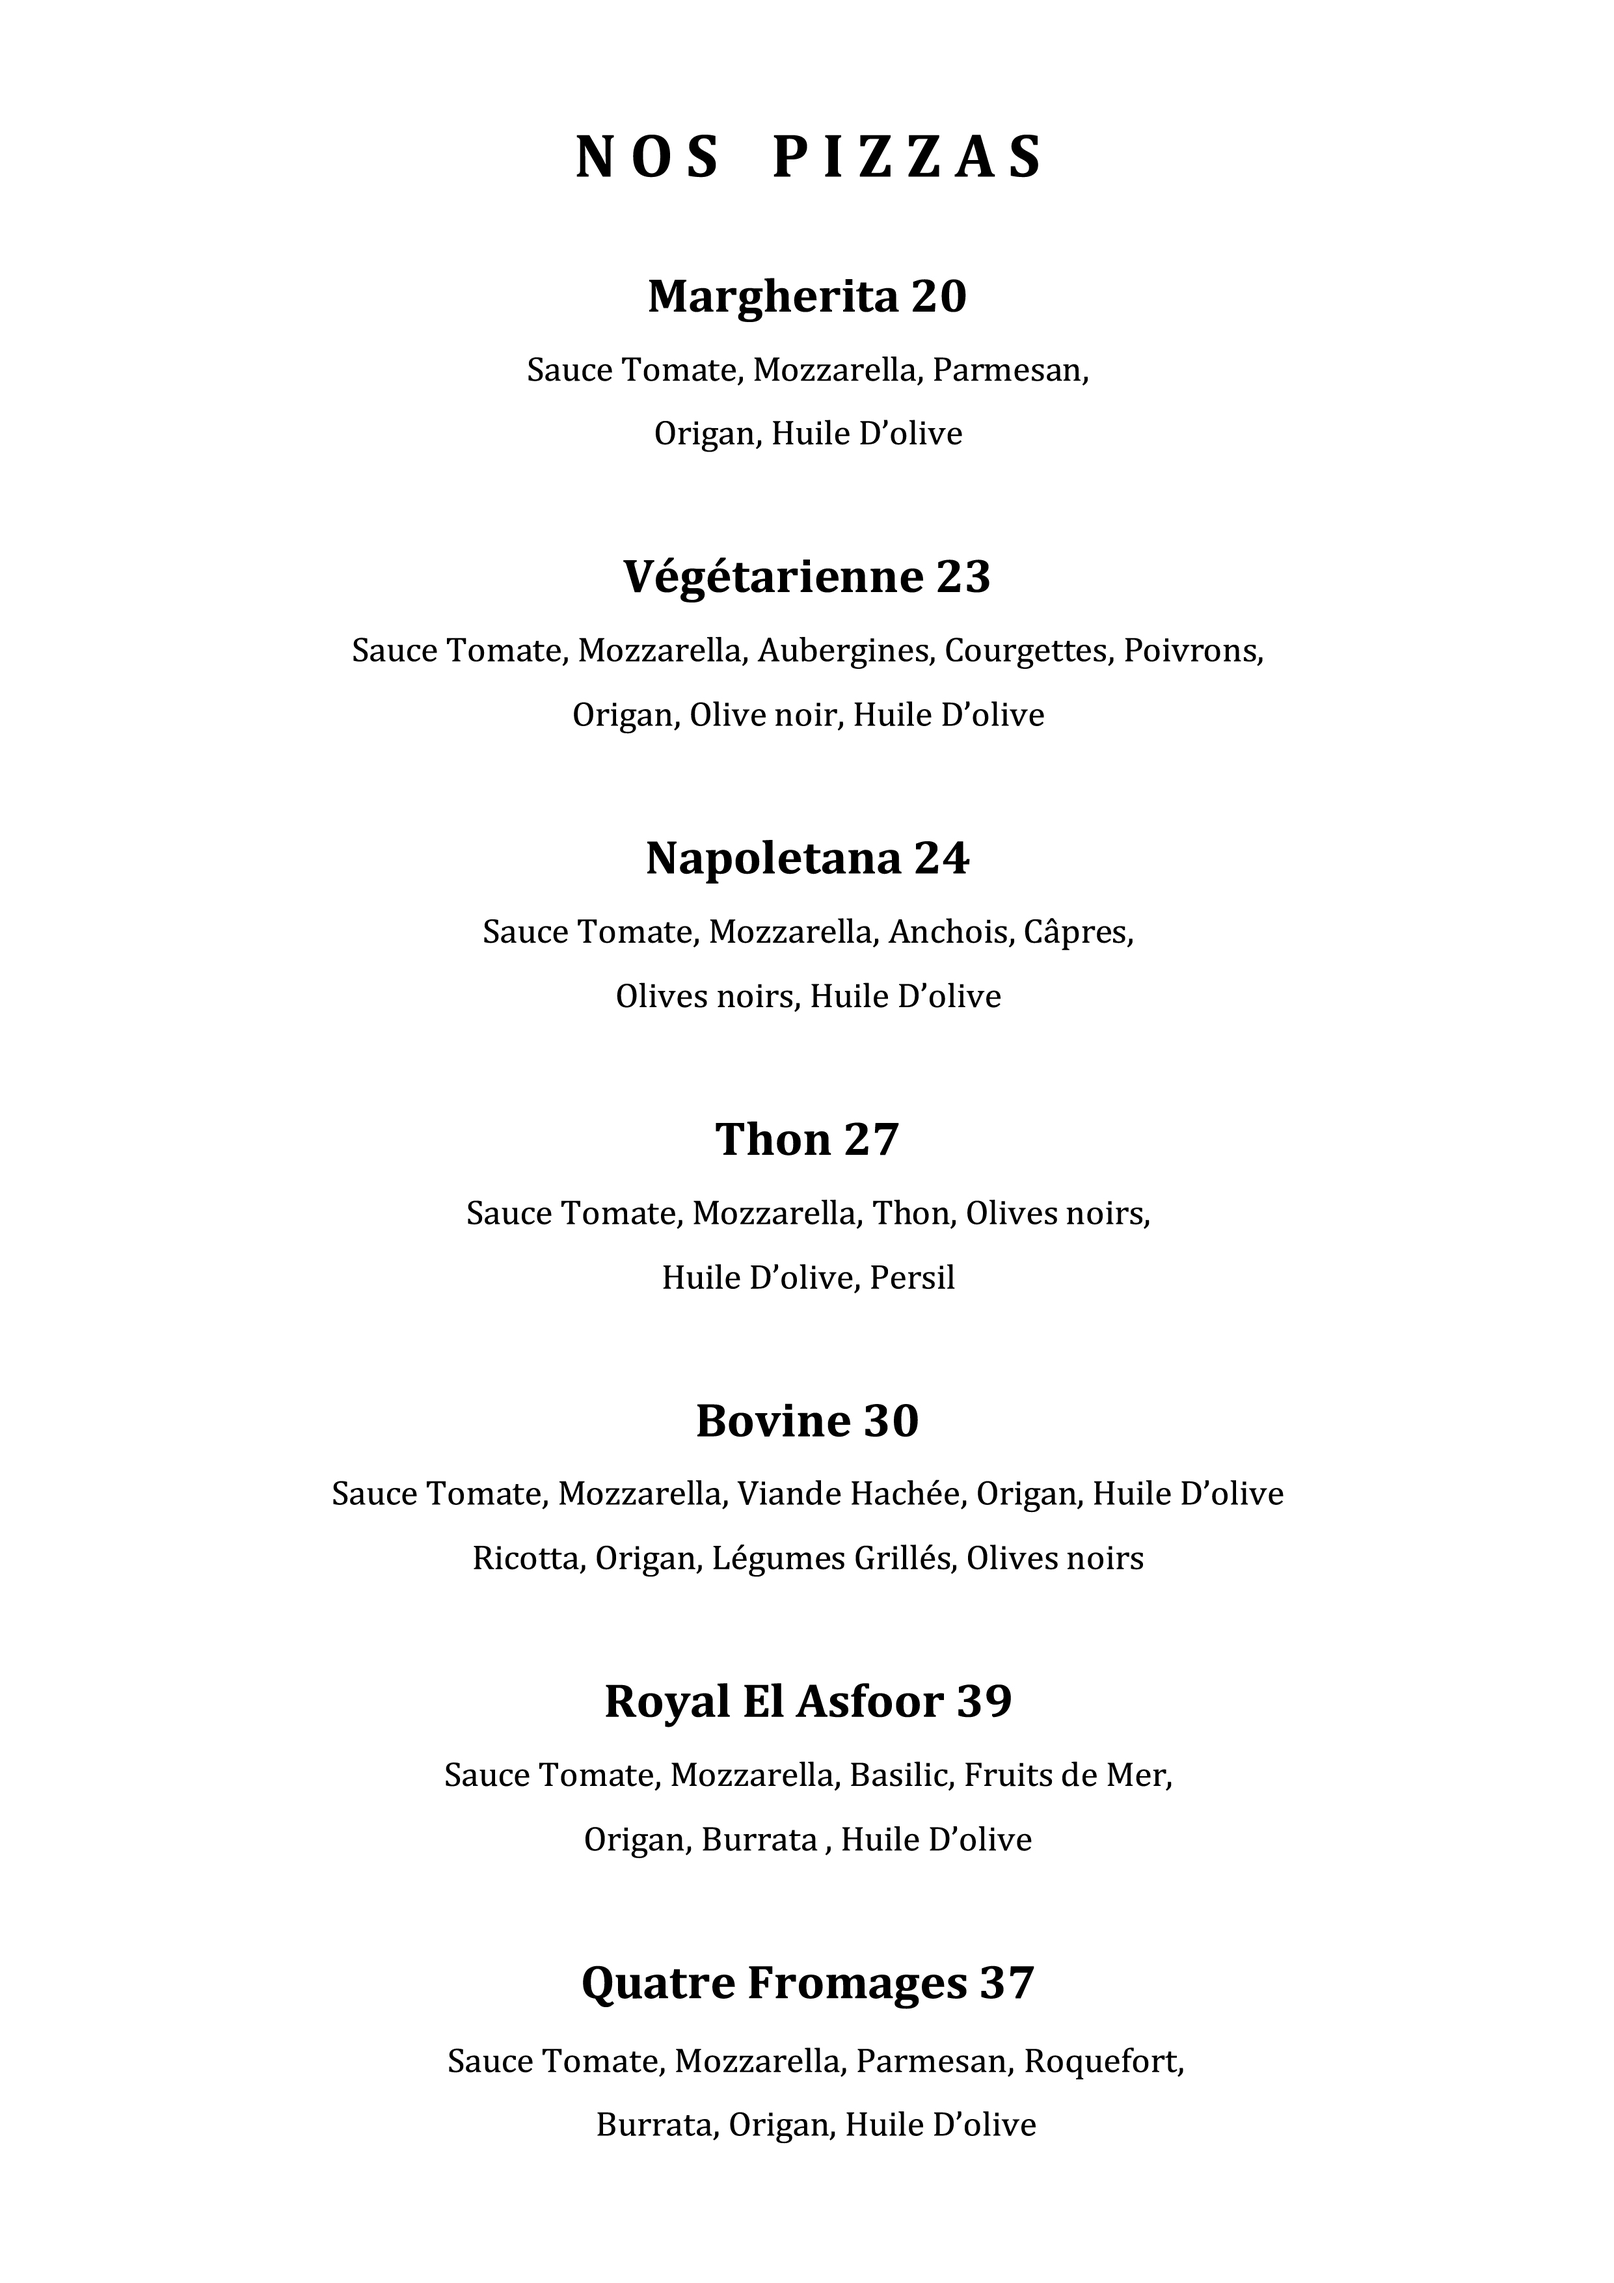
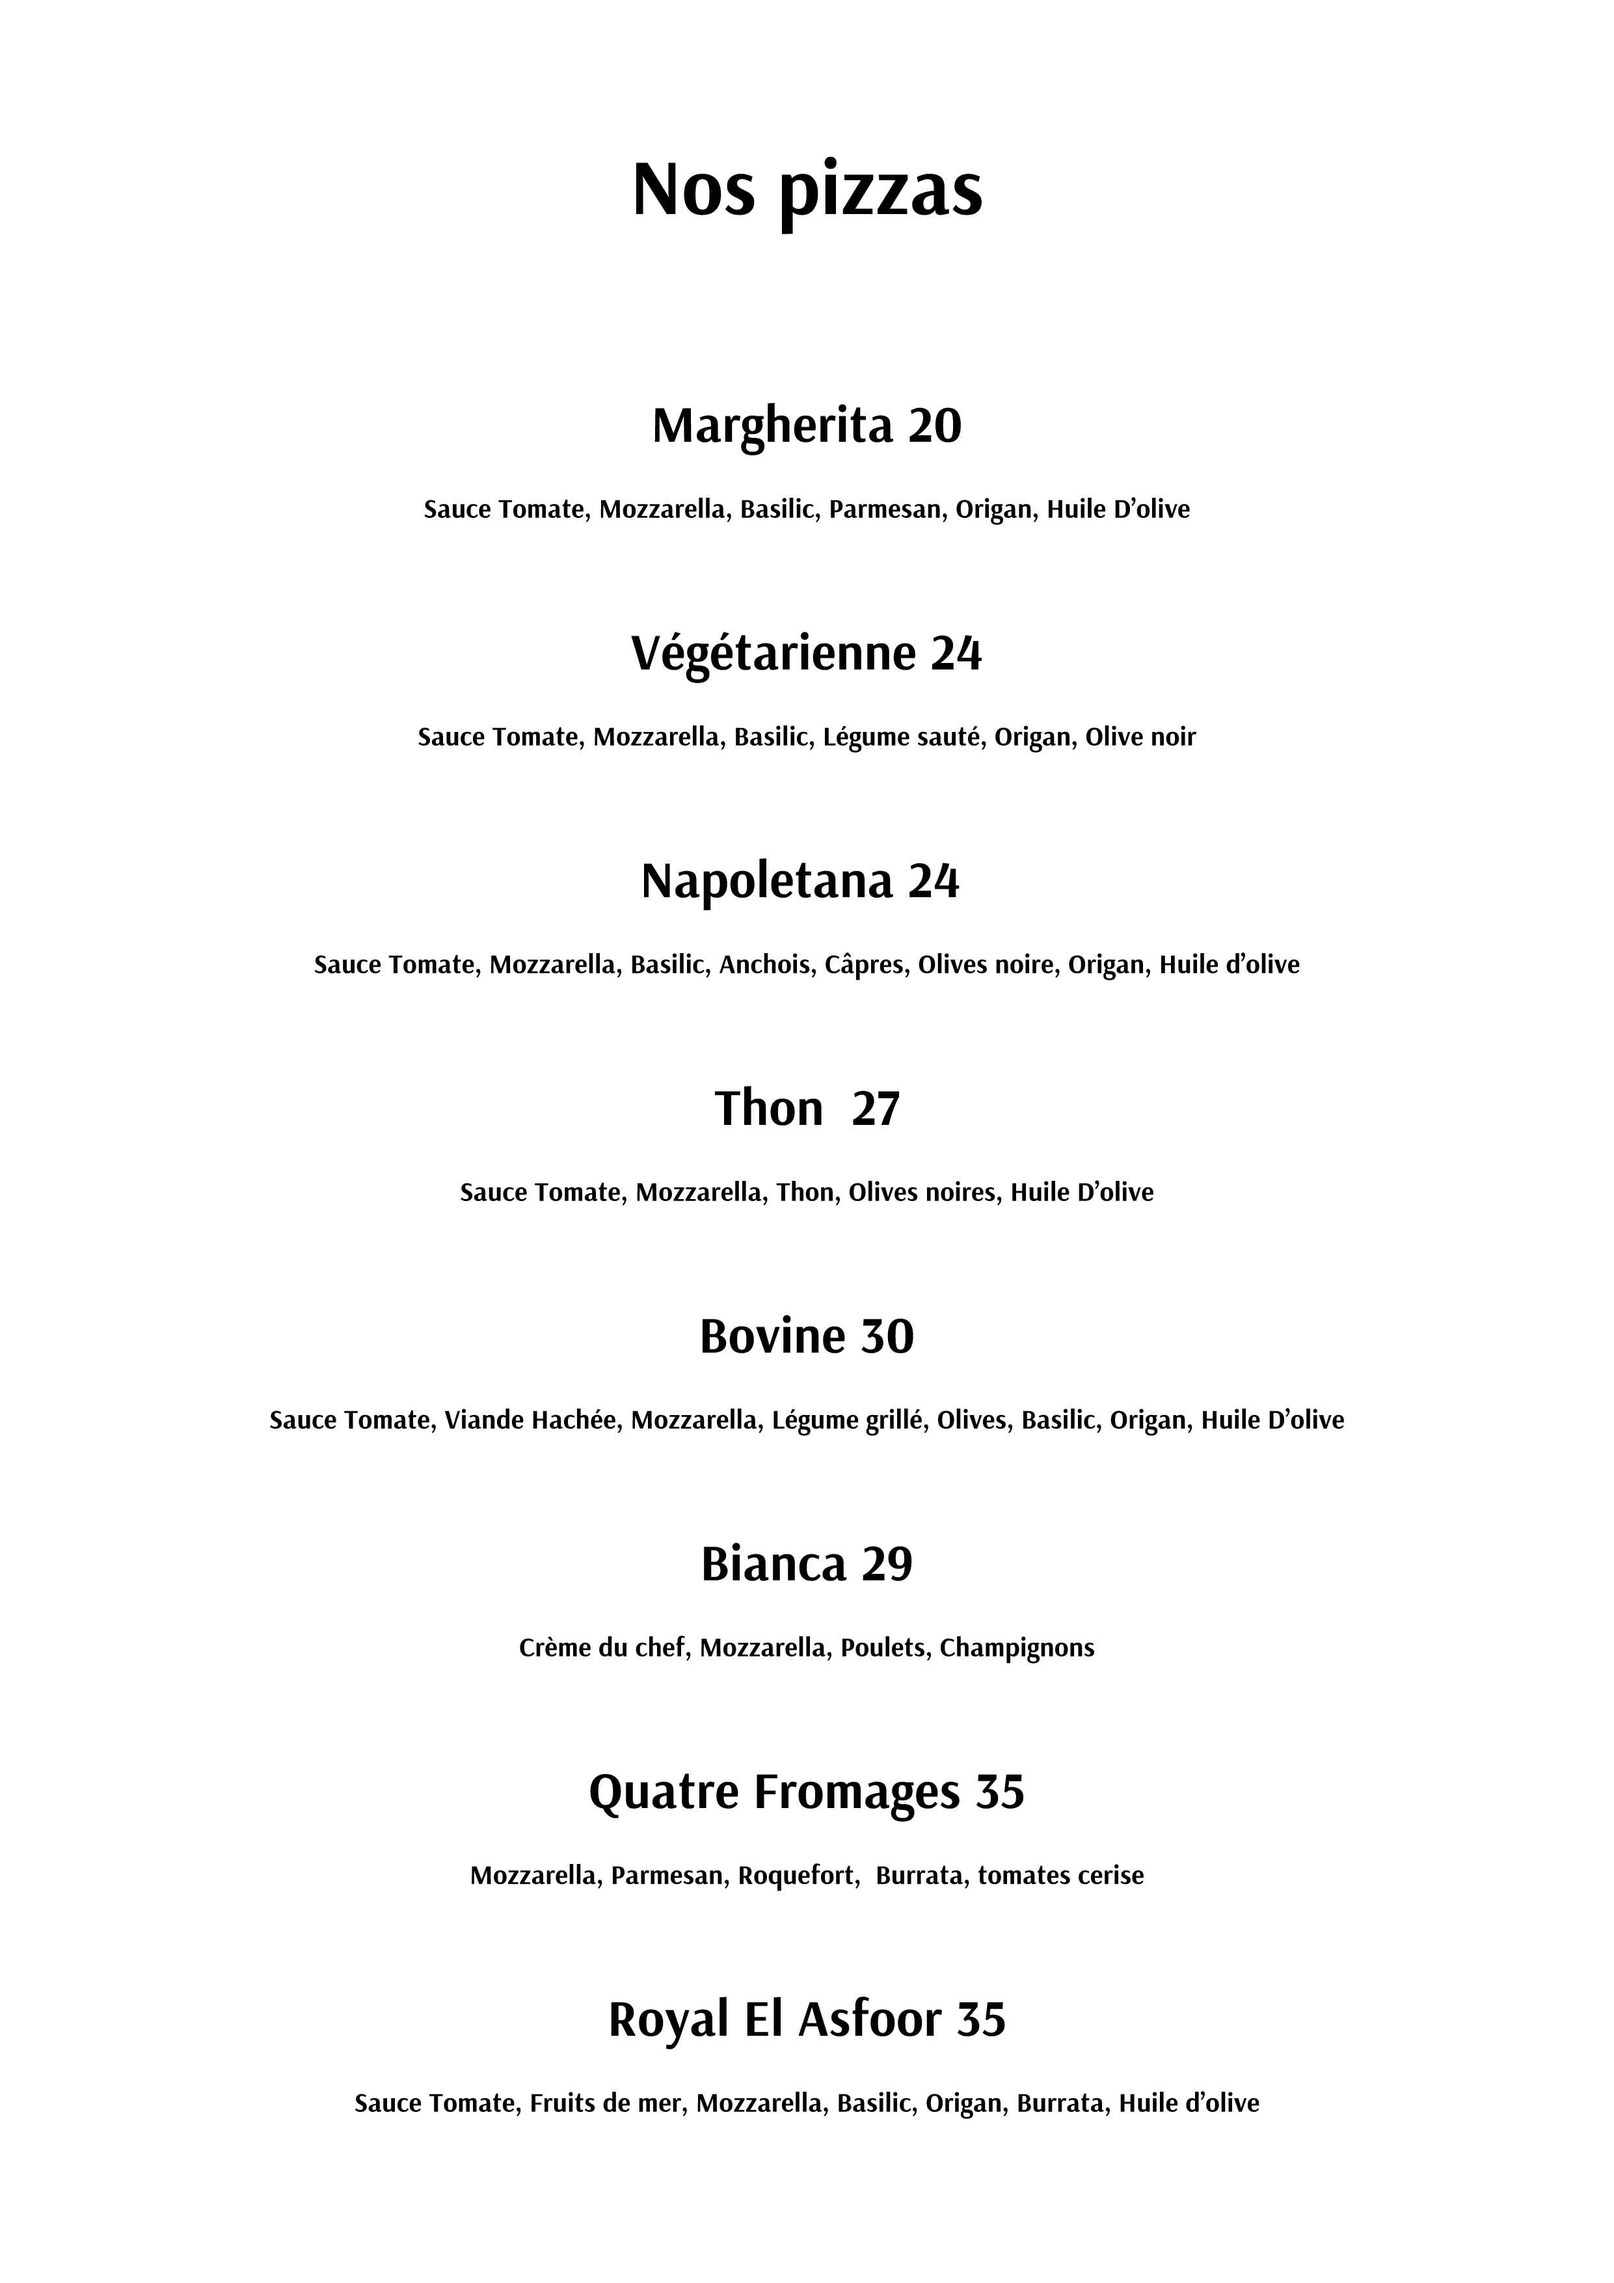
new menu (only 'Nourriture Restaurant' stayed the same as August 2024)

diff --git a/Salon-de-the/Salon-de-the-FR.html b/Salon-de-the/Salon-de-the-FR.html
@@ -44,6 +44,8 @@
 		<img src="pages/5.jpg" />
 		<img src="pages/6.jpg" />
 		<img src="pages/7.jpg" />
+		<img src="pages/8.jpg" />
+		<img src="pages/9.jpg" />
 	</div>
 
 <!-- Custom JS Files -->
